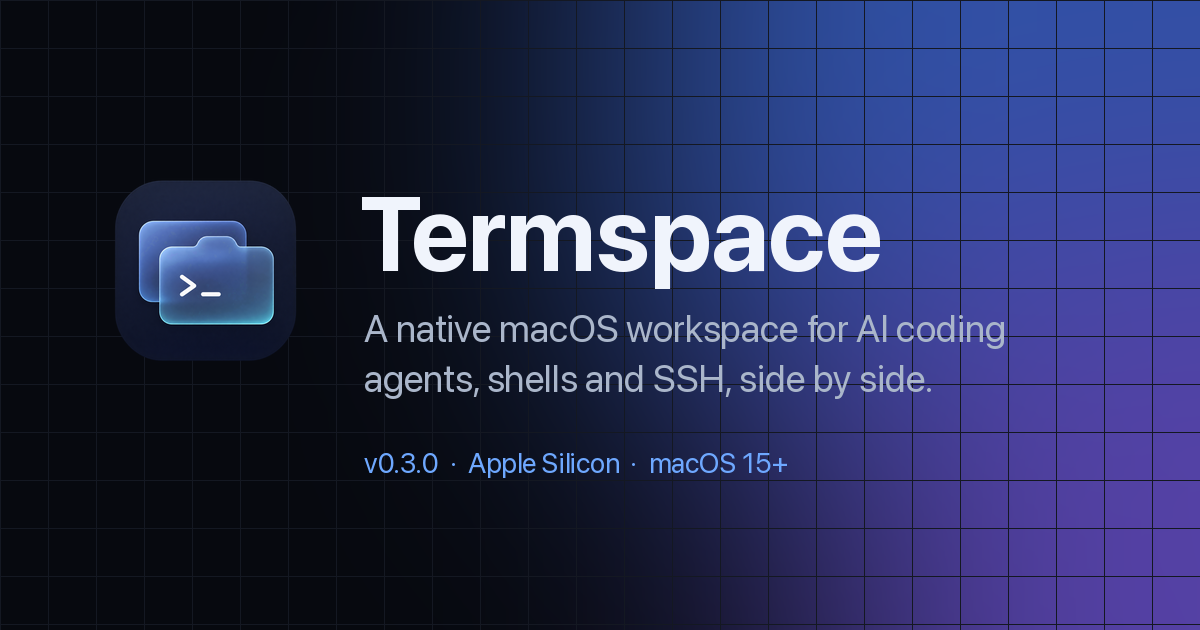
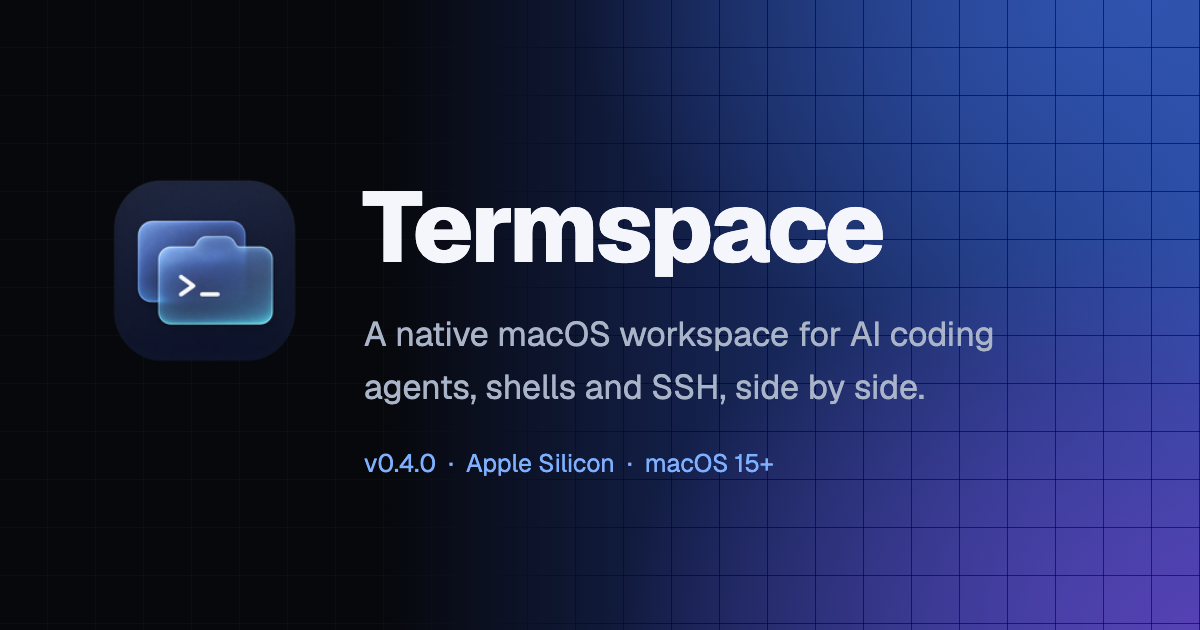
Termspace 0.4.0: release facts, feature cards and preview image
Codex CLI and resizing in the inspector card, Usage screen split, heads-up, side-by-side diff and
MCP tokens in its list, forwarded status in the remote tabs card, and the opt-in local usage
telemetry in the privacy card. The preview image now has its source, tools/og.html.

Posted by Claude Code (Claude Opus 5.5) on behalf of Amarsanaa Jargal.

Claude-Session: https://claude.ai/code/session_01HZ8MuTr9otcb4PTmChuqpD

diff --git a/index.html b/index.html
@@ -31,11 +31,11 @@
 </head>
 <!-- Release facts: change them here and in the static text marked data-r below (see README.md). -->
 <body
-  data-version="0.3.0"
-  data-size="12.4 MB"
[1 lines of base64/hex data omitted]
-  data-url="https://github.com/amaraa87/termspace-site/releases/download/v0.3.0/Termspace-0.3.0.dmg"
-  data-file="Termspace-0.3.0.dmg">
+  data-version="0.4.0"
+  data-size="13.0 MB"
[1 lines of base64/hex data omitted]
+  data-url="https://github.com/amaraa87/termspace-site/releases/download/v0.4.0/Termspace-0.4.0.dmg"
+  data-file="Termspace-0.4.0.dmg">
 <a class="skip" href="#main">Skip to content</a>
 
 <header class="nav">
@@ -59,19 +59,19 @@
   <section class="hero" id="top" aria-labelledby="hero-title">
     <div class="wrap hero-in">
       <div class="hero-copy">
-        <p class="eyebrow"><span class="dot" aria-hidden="true"></span><span>Version <span data-r="version">0.3.0</span> · native macOS · terminals by Ghostty</span></p>
+        <p class="eyebrow"><span class="dot" aria-hidden="true"></span><span>Version <span data-r="version">0.4.0</span> · native macOS · terminals by Ghostty</span></p>
         <h1 id="hero-title">Every agent.<br><span class="grad">One workspace.</span></h1>
         <p class="lede">A native macOS terminal workspace for running several AI coding agents, shells and SSH sessions side by side. Not an IDE.</p>
         <div class="cta">
-          <a class="btn btn-primary" data-r-href="url" href="https://github.com/amaraa87/termspace-site/releases/download/v0.3.0/Termspace-0.3.0.dmg">
+          <a class="btn btn-primary" data-r-href="url" href="https://github.com/amaraa87/termspace-site/releases/download/v0.4.0/Termspace-0.4.0.dmg">
             <svg width="18" height="18" viewBox="0 0 24 24" aria-hidden="true"><path fill="currentColor" d="M12 3a1 1 0 0 1 1 1v9.6l3.3-3.3a1 1 0 1 1 1.4 1.4l-5 5a1 1 0 0 1-1.4 0l-5-5a1 1 0 1 1 1.4-1.4l3.3 3.3V4a1 1 0 0 1 1-1ZM5 19h14a1 1 0 1 1 0 2H5a1 1 0 1 1 0-2Z"/></svg>
-            <span class="btn-text"><span>Download for macOS</span><small>v<span data-r="version">0.3.0</span> · Apple Silicon · macOS 15+</small></span>
+            <span class="btn-text"><span>Download for macOS</span><small>v<span data-r="version">0.4.0</span> · Apple Silicon · macOS 15+</small></span>
           </a>
           <a class="btn btn-ghost" href="https://github.com/amaraa87/termspace-site/releases">All releases <span aria-hidden="true">→</span></a>
         </div>
         <div class="fineprint">
-          <p><span data-r="file">Termspace-0.3.0.dmg</span> · <span data-r="size">12.4 MB</span> · Developer ID signed, notarized by Apple</p>
-          <p class="sha"><span class="sha-label">SHA-256</span> <code data-r="sha">1e0068ad107c2c0d18c74096fba443affa32b86ea62bcc9d870ffe6855ee862f</code>
+          <p><span data-r="file">Termspace-0.4.0.dmg</span> · <span data-r="size">13.0 MB</span> · Developer ID signed, notarized by Apple</p>
+          <p class="sha"><span class="sha-label">SHA-256</span> <code data-r="sha">63711267492e6fef82b3958132c9a4487736250e09304612c5ae74848f8b0b26</code>
             <button type="button" class="copy" data-copy="sha" hidden>Copy</button><span class="copied" role="status" aria-live="polite"></span></p>
         </div>
       </div>
@@ -162,11 +162,11 @@
         </article>
         <article class="card span2 tall">
           <h3>Claude Code inspector</h3>
-          <p>A column beside the terminals that follows the focused tab. It finds the session through Claude Code's own session files and reads them read-only; it never writes under <code>~/.claude</code>. The session panels need no setup; the plan's 5-hour and weekly windows and cost need the bundled plugin's status-line step.</p>
+          <p>A column beside the terminals that follows the focused tab, for Claude Code and Codex CLI. It finds the session through the tool's own session files and reads them read-only; it never writes under <code>~/.claude</code> or <code>~/.codex</code>. Drag its edge to resize it. The session panels need no setup; for Claude Code, the plan's 5-hour and weekly windows and cost need the bundled plugin's status-line step.</p>
           <ul class="ticks">
-            <li><b>Session</b> state, model, context, plan 5-hour and weekly windows, steps, subagents</li>
-            <li><b>Git</b> branch, staged, changed and untracked files with line counts, and a read-only diff you step through change by change</li>
-            <li><b>Tools</b> skills, plugins and MCP servers</li>
+            <li><b>Session</b> state, model, context split as on Claude's Usage screen, the plan's windows with a heads-up when the pace would use one up before its reset, steps, subagents</li>
+            <li><b>Git</b> branch, staged, changed and untracked files with line counts, and a read-only diff you step through change by change, side by side when the column is wide</li>
+            <li><b>Tools</b> skills, plugins and MCP servers, with the tokens of the replies made for each server</li>
           </ul>
         </article>
         <article class="card">
@@ -179,7 +179,7 @@
         </article>
         <article class="card">
           <h3>Remote tabs over ssh</h3>
-          <p>A tab that runs the system <code>ssh</code>. Keys, ports and jump hosts stay with ssh and your <code>~/.ssh/config</code>; Termspace keeps only the host name.</p>
+          <p>A tab that runs the system <code>ssh</code>. Keys, ports and jump hosts stay with ssh and your <code>~/.ssh/config</code>; Termspace keeps only the host name. With the plugin on the server, Claude Code's model, context, cost and plan windows there show for that tab.</p>
         </article>
         <article class="card">
           <h3>Palette and file viewer</h3>
@@ -221,7 +221,7 @@
         <p class="kicker">Install</p>
         <h2 id="install-title">Drag, drop, done.</h2>
         <ol class="steps">
-          <li><a data-r-href="url" href="https://github.com/amaraa87/termspace-site/releases/download/v0.3.0/Termspace-0.3.0.dmg">Download <span data-r="file">Termspace-0.3.0.dmg</span></a> and open it.</li>
+          <li><a data-r-href="url" href="https://github.com/amaraa87/termspace-site/releases/download/v0.4.0/Termspace-0.4.0.dmg">Download <span data-r="file">Termspace-0.4.0.dmg</span></a> and open it.</li>
           <li>Drag Termspace to Applications, then open it.</li>
           <li>The first time a shell touches Desktop, Documents or Downloads, macOS asks whether Termspace may access it. That shell waits until you answer.</li>
         </ol>
@@ -243,7 +243,7 @@
     <div class="wrap">
       <div class="card privacy-card">
         <h2 id="privacy-title">Private by design</h2>
-        <p>No account. No telemetry is sent anywhere. To show a session, Termspace reads Claude Code's session files on your Mac, read-only. Settings and layouts stay in your Library folder.</p>
+        <p>No account. No telemetry is sent anywhere. To show a session, Termspace reads Claude Code's and Codex's session files on your Mac, read-only. Optional and off by default: local usage telemetry asks Claude Code to send its token counters to Termspace on this Mac (127.0.0.1). Settings and layouts stay in your Library folder.</p>
       </div>
     </div>
   </section>
@@ -251,7 +251,7 @@
 
 <footer class="foot">
   <div class="wrap foot-in">
-    <p><img src="assets/img/icon-96.png" width="20" height="20" alt=""> Termspace <span data-r="version">0.3.0</span></p>
+    <p><img src="assets/img/icon-96.png" width="20" height="20" alt=""> Termspace <span data-r="version">0.4.0</span></p>
     <p>Terminals rendered by <a href="https://ghostty.org">Ghostty</a> (MIT).</p>
     <p><a href="https://github.com/amaraa87/termspace-site/releases">Releases</a></p>
   </div>

diff --git a/tools/og.html b/tools/og.html
@@ -1,0 +1,21 @@
+<!doctype html><html><head><meta charset="utf-8">
+<link rel="stylesheet" href="https://fonts.googleapis.com/css2?family=Geist:wght@400;500;800&display=block">
+<style>
+html,body{margin:0;width:1200px;height:630px;overflow:hidden;background:#07080c}
+.bg{position:absolute;inset:0;background:
+ radial-gradient(ellipse 70% 90% at 100% 100%, rgba(88,64,180,.95), transparent 70%),
+ radial-gradient(ellipse 65% 85% at 95% 0%, rgba(48,84,176,.95), transparent 72%),
+ linear-gradient(90deg,#07080c 0%,#07080c 32%,#13204a 58%,#2b4aa0 100%)}
+.grid{position:absolute;inset:0;background-image:linear-gradient(rgba(0,0,0,.55) 1px,transparent 1px),linear-gradient(90deg,rgba(0,0,0,.55) 1px,transparent 1px);background-size:48px 48px;background-position:-1px -1px}
+.grid2{position:absolute;inset:0;background-image:linear-gradient(rgba(255,255,255,.035) 1px,transparent 1px),linear-gradient(90deg,rgba(255,255,255,.035) 1px,transparent 1px);background-size:48px 48px;background-position:-1px -1px;mask-image:linear-gradient(90deg,#000 0,#000 40%,transparent 60%)}
+img{position:absolute;left:95px;top:160px;width:220px;height:220px}
+.t{position:absolute;left:362px;top:178px;font:800 99px/1 Geist,sans-serif;color:#f4f6fb;letter-spacing:-2.5px}
+.s{position:absolute;left:364px;top:308px;width:700px;font:400 34px/1.55 Geist,sans-serif;color:#aab4c8}
+.v{position:absolute;left:364px;top:448px;font:400 25px/1.2 Geist,sans-serif;color:#7fb0ff}
+</style></head><body>
+<div class="bg"></div><div class="grid"></div><div class="grid2"></div>
+<img src="../assets/img/apple-touch-icon.png" alt="">
+<div class="t">Termspace</div>
+<div class="s">A native macOS workspace for AI coding agents, shells and SSH, side by side.</div>
+<div class="v">v0.4.0 &nbsp;·&nbsp; Apple Silicon &nbsp;·&nbsp; macOS 15+</div>
+</body></html>

diff --git a/README.md b/README.md
@@ -1,3 +1,3 @@
 # termspace-site
 
-Public landing page for **Termspace**, a native macOS terminal workspace for AI coding agents, shells and SSH. It is static HTML with no build step, published to GitHub Pages by `.github/workflows/deploy.yml` on every push to `main` at https://amaraa87.github.io/termspace-site/. The DMG is a GitHub release asset of this repo. All asset paths are relative, so the site works under `/termspace-site/` or on a custom domain. To ship a new version, upload the DMG to a new release and then update the release facts. In `index.html` they live in the `data-version`, `data-size`, `data-sha`, `data-url` and `data-file` attributes on `<body>`, which `assets/js/site.js` copies into every element marked `data-r` / `data-r-href`. The same values also appear as static fallback text in those elements: the eyebrow, the download button (href and the `v0.3.0` label), the file name, size and SHA-256 under it, the Install step 1 link, and the footer. `grep -nE '0\.3\.0|12\.4 MB|1e0068' index.html` finds all of them. The version is also drawn into `assets/img/og.png`; regenerate that image when it changes.
+Public landing page for **Termspace**, a native macOS terminal workspace for AI coding agents, shells and SSH. It is static HTML with no build step, published to GitHub Pages by `.github/workflows/deploy.yml` on every push to `main` at https://amaraa87.github.io/termspace-site/. The DMG is a GitHub release asset of this repo. All asset paths are relative, so the site works under `/termspace-site/` or on a custom domain. To ship a new version, upload the DMG to a new release and then update the release facts. In `index.html` they live in the `data-version`, `data-size`, `data-sha`, `data-url` and `data-file` attributes on `<body>`, which `assets/js/site.js` copies into every element marked `data-r` / `data-r-href`. The same values also appear as static fallback text in those elements: the eyebrow, the download button (href and the `v0.4.0` label), the file name, size and SHA-256 under it, the Install step 1 link, and the footer. `grep -nE '0\.4\.0|13\.0 MB|637112' index.html` finds all of them. The version is also drawn into `assets/img/og.png`: change it in `tools/og.html`, then `"/Applications/Google Chrome.app/Contents/MacOS/Google Chrome" --headless=new --hide-scrollbars --force-device-scale-factor=1 --window-size=1200,630 --virtual-time-budget=4000 --screenshot=assets/img/og.png "file://$PWD/tools/og.html"`.
